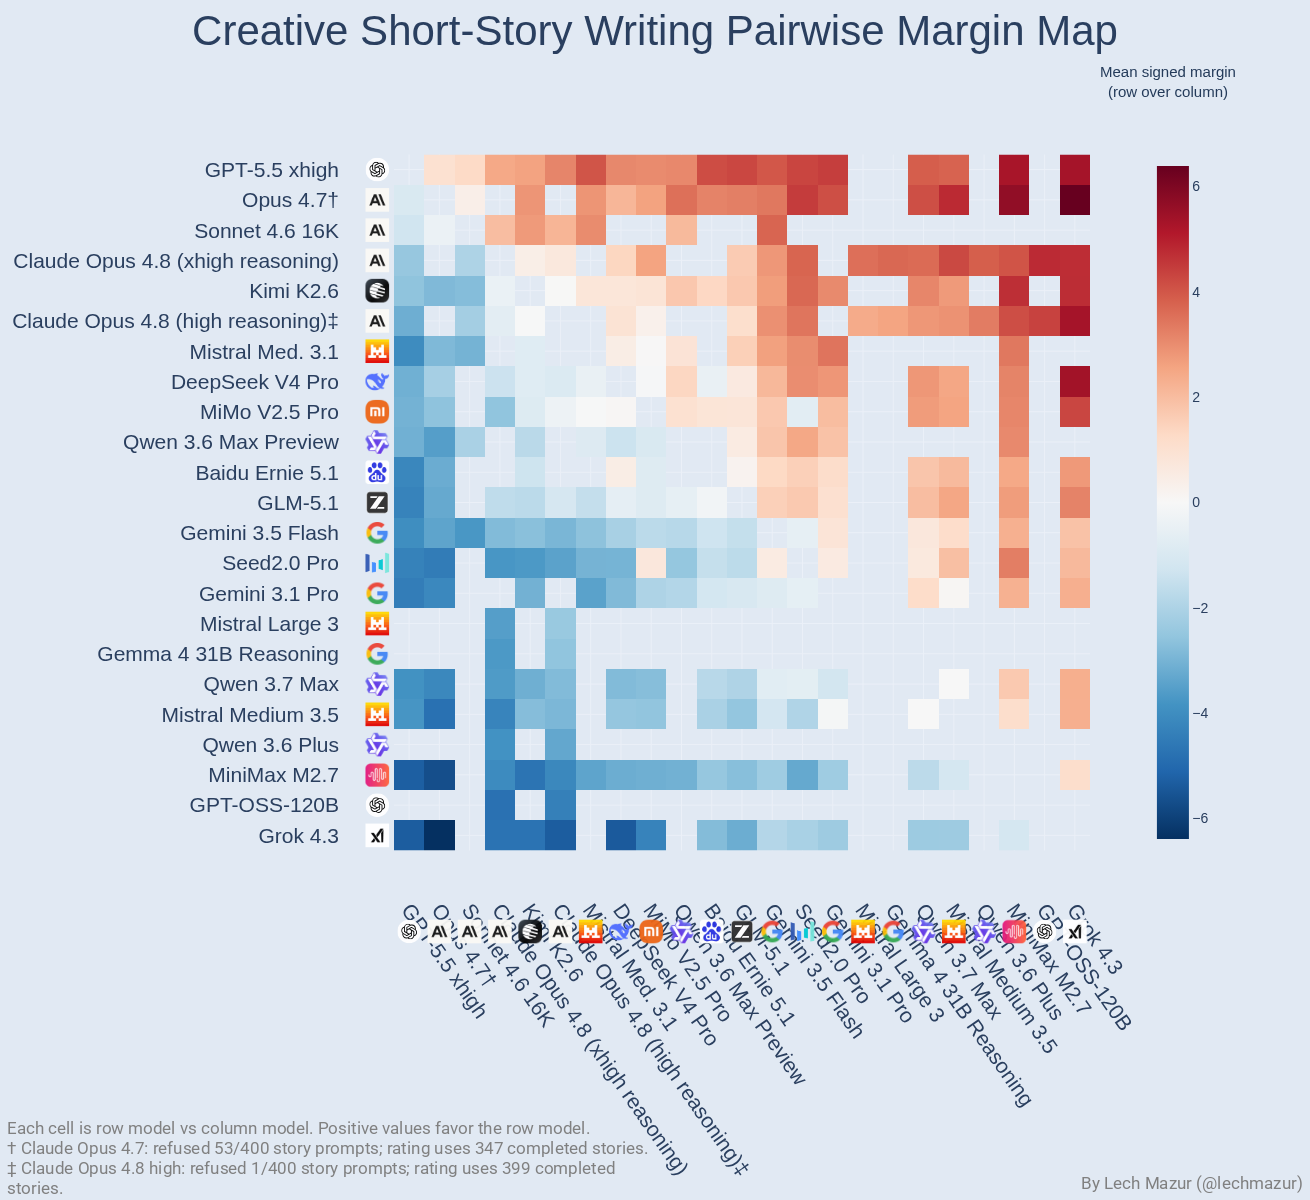
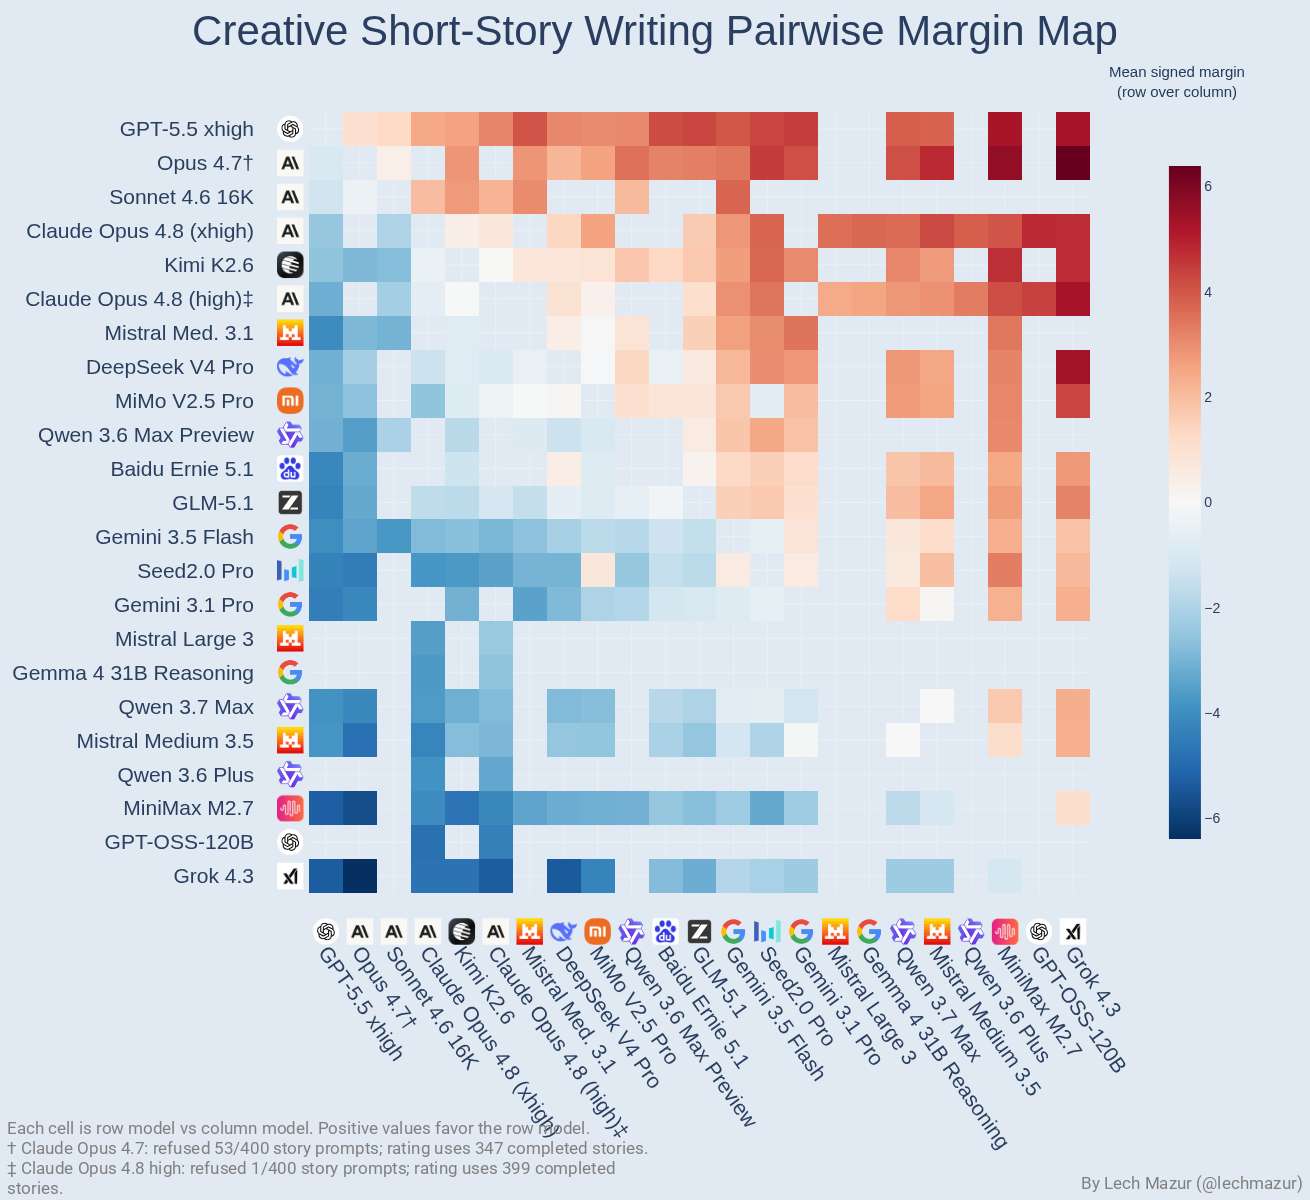
charts

diff --git a/README.md b/README.md
@@ -24,16 +24,16 @@ Current comparison set:
 
 | Rank | Model | Comparison Score | Win Prob vs Pool | 95% CI |
 |-----:|:------|-----------------:|-----------------:|:-------|
-| 1 | GPT-5.5 (xhigh reasoning) | 3.5 | 0.92 | 3.4..3.6 |
+| 1 | GPT-5.5 (xhigh) | 3.5 | 0.92 | 3.4..3.6 |
 | 2 | gpt-5.4-xhigh | 3.4 | 0.91 | 3.3..3.6 |
 | 3 | gpt-5.4-medium | 3.3 | 0.90 | 3.2..3.5 |
-| 4 | Claude Opus 4.7 (high reasoning)† | 3.0 | 0.87 | 2.8..3.1 |
+| 4 | Claude Opus 4.7 (high)† | 3.0 | 0.87 | 2.8..3.1 |
 | 5 | Claude Sonnet 4.6 Thinking 16K | 2.8 | 0.86 | 2.7..3.0 |
 | 6 | claude-opus-4-6-16K | 2.2 | 0.80 | 2.0..2.5 |
-| 7 | Claude Opus 4.8 (xhigh reasoning) | 1.7 | 0.75 | 1.6..1.9 |
+| 7 | Claude Opus 4.8 (xhigh) | 1.7 | 0.75 | 1.6..1.9 |
 | 8 | gpt-5.2-medium | 1.5 | 0.72 | 1.3..1.7 |
 | 9 | Kimi K2.6 | 1.2 | 0.68 | 1.1..1.4 |
-| 10 | Claude Opus 4.8 (high reasoning)‡ | 1.1 | 0.67 | 1.0..1.3 |
+| 10 | Claude Opus 4.8 (high)‡ | 1.1 | 0.67 | 1.0..1.3 |
 | 11 | Mistral Medium 3.1 | 0.8 | 0.63 | 0.6..1.0 |
 | 12 | DeepSeek V4 Pro | 0.6 | 0.60 | 0.5..0.8 |
 | 13 | Xiaomi MiMo V2.5 Pro | 0.5 | 0.58 | 0.3..0.6 |